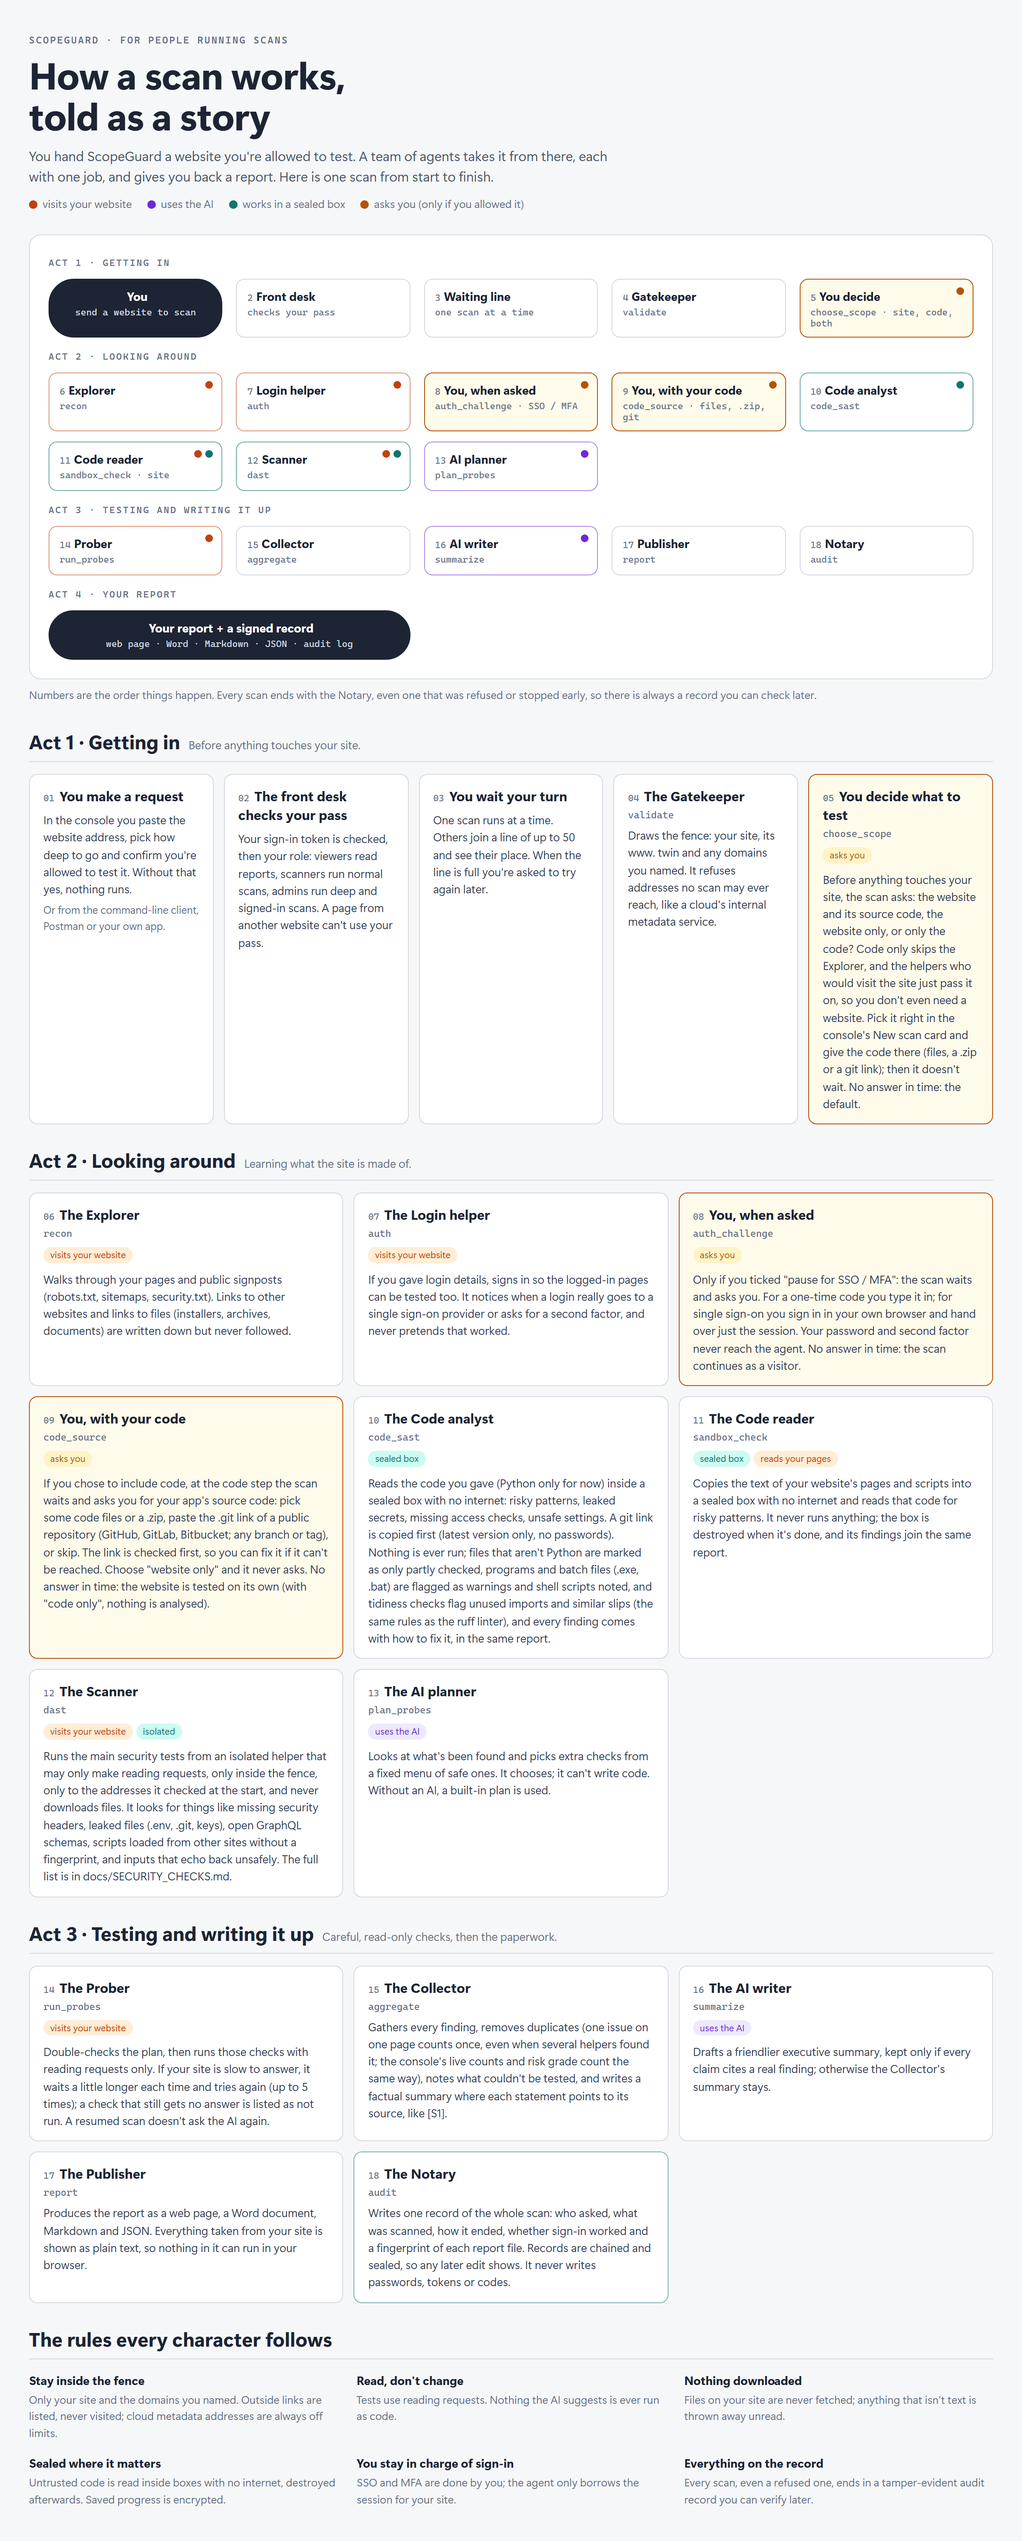
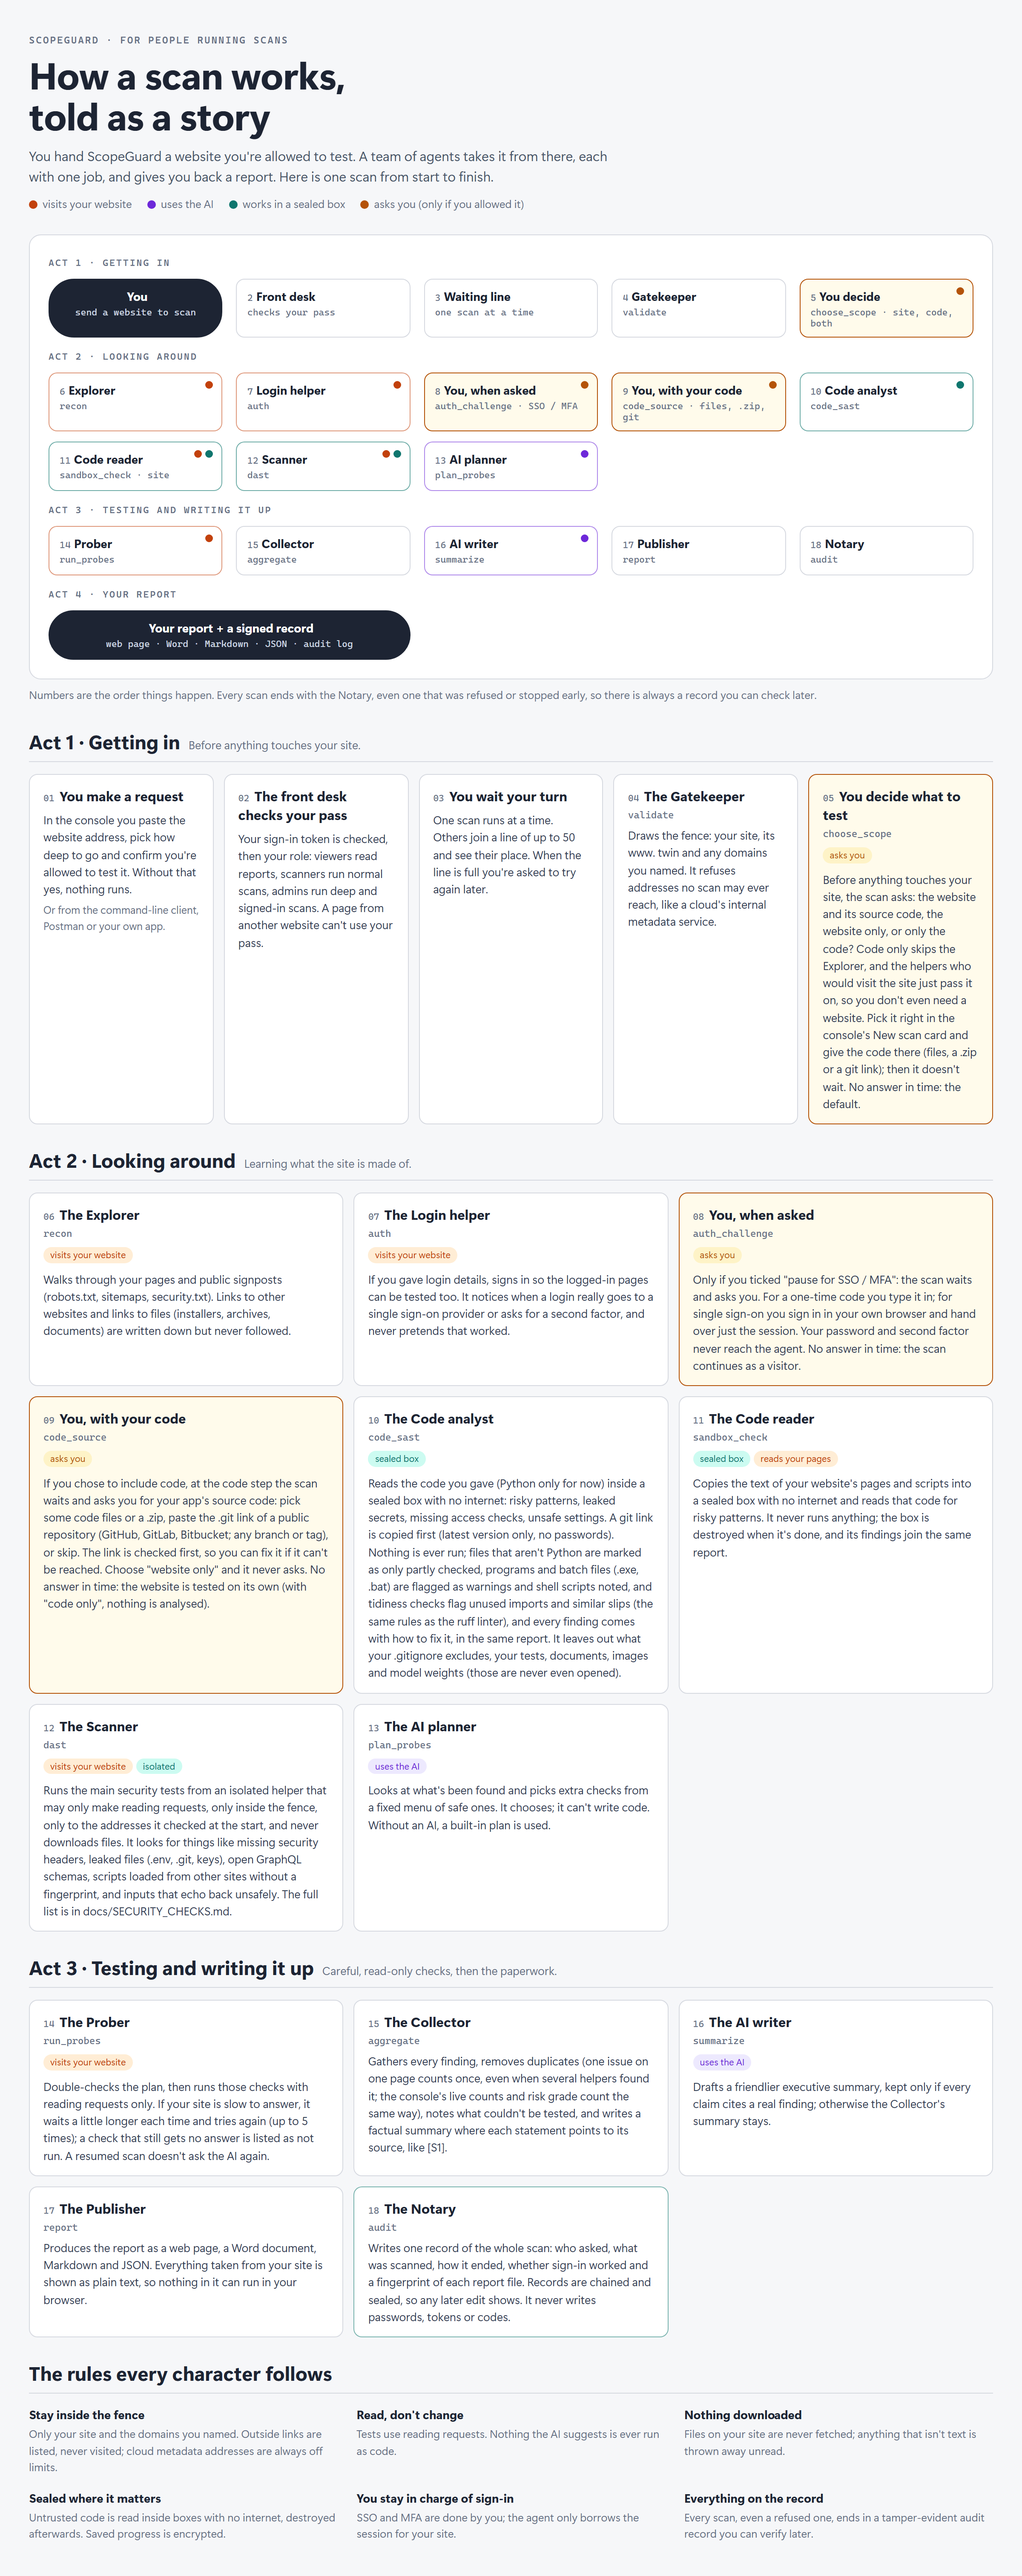
Docs: what the code SAST leaves out; skill rebuilt with LF sources
- docs/WEBSOCKET.md: --code-path leaves out gitignored files, caches, documents,
  images and model weights; what the code scan does not analyse.
- docs/scan-story (html + png): the Code analyst step names what it leaves out.
- MCP instructions and the agent skill: which files are not analysed (do not
  claim they were checked); HTTP 413 from upload_code = over MCP_MAX_UPLOAD_MB.
- .gitattributes pins .claude/skills/** to LF and marks *.skill binary, so the
  packaged skills/scopeguard-scan.skill (rebuilt with the skill-creator) matches
  the source GitHub serves byte for byte and is not reported as a nested archive.

diff --git a/docs/src/scan-story.html b/docs/src/scan-story.html
@@ -116,7 +116,7 @@
     <div class="card you"><span class="n">09</span><h3>You, with your code</h3><code>code_source</code><span class="chip c-you">asks you</span>
       <p>If you chose to include code, at the code step the scan waits and asks you for your app's source code: pick some code files or a .zip, paste the .git link of a public repository (GitHub, GitLab, Bitbucket; any branch or tag), or skip. The link is checked first, so you can fix it if it can't be reached. Choose "website only" and it never asks. No answer in time: the website is tested on its own (with "code only", nothing is analysed).</p></div>
     <div class="card"><span class="n">10</span><h3>The Code analyst</h3><code>code_sast</code><span class="chip c-box">sealed box</span>
-      <p>Reads the code you gave (Python only for now) inside a sealed box with no internet: risky patterns, leaked secrets, missing access checks, unsafe settings. A git link is copied first (latest version only, no passwords). Nothing is ever run; files that aren't Python are marked as only partly checked, programs and batch files (.exe, .bat) are flagged as warnings and shell scripts noted, and tidiness checks flag unused imports and similar slips (the same rules as the ruff linter), and every finding comes with how to fix it, in the same report.</p></div>
+      <p>Reads the code you gave (Python only for now) inside a sealed box with no internet: risky patterns, leaked secrets, missing access checks, unsafe settings. A git link is copied first (latest version only, no passwords). Nothing is ever run; files that aren't Python are marked as only partly checked, programs and batch files (.exe, .bat) are flagged as warnings and shell scripts noted, and tidiness checks flag unused imports and similar slips (the same rules as the ruff linter), and every finding comes with how to fix it, in the same report. It leaves out what your .gitignore excludes, your tests, documents, images and model weights (those are never even opened).</p></div>
     <div class="card"><span class="n">11</span><h3>The Code reader</h3><code>sandbox_check</code><span class="chip c-box">sealed box</span><span class="chip c-web">reads your pages</span>
       <p>Copies the text of your website's pages and scripts into a sealed box with no internet and reads that code for risky patterns. It never runs anything; the box is destroyed when it's done, and its findings join the same report.</p></div>
     <div class="card"><span class="n">12</span><h3>The Scanner</h3><code>dast</code><span class="chip c-web">visits your website</span><span class="chip c-box">isolated</span>

diff --git a/src/pentest_agent/mcp_server/server.py b/src/pentest_agent/mcp_server/server.py
@@ -63,6 +63,9 @@ each with its level): .exe/.bat/.cmd are warnings with a red flag, ask the user 
 .sh shell scripts are only a note (review them if unexpected). Python files
 are also checked against the PEP 8 coding standard and ruff lint rules (STYLE_* findings, info/low severity, one per rule
 and file; get_scan.code_sast.coding_standard summarises them). scan_policy.code_uploads shows the sandbox status.
+Not analysed: whatever the project's .gitignore excludes, pytest files, .claude/ and cache folders,
+documents (.md, .txt, .pdf, .docx, .mmd), images and model weights (never opened): do not tell the user
+those were checked. upload_code takes a .zip up to MCP_MAX_UPLOAD_MB (scan_policy.code_uploads).
 
 What a scan tests (scan_scope in start_scan; ask the user when they give both a site and code):
 "website_and_code" (the site, then the code; the default when upload_id/git_url is given),

diff --git a/docs/WEBSOCKET.md b/docs/WEBSOCKET.md
@@ -191,10 +191,13 @@ path is the MCP tool `upload_code`, because a zip has to fit inside a JSON tool 
 by the server (`--depth 1`, hardened), so nothing is uploaded at all.
 
 `scripts/ws_client.py --code-path <.zip or folder>` (or the wizard's "local .zip file or project
-folder") does the upload for you: a folder is zipped in memory (`.git`, `node_modules`, virtualenvs,
-caches and symlinks are left out), sent as the raw `POST /api/uploads` body with the automatic token,
-and the returned `upload_id` goes into the scan request. Code needs the admin role (`scan:source`) and
-is analysed as Python (other languages: partial coverage, marked in the report).
+folder") does the upload for you: a folder is zipped in memory and sent as the raw `POST /api/uploads`
+body with the automatic token; the returned `upload_id` goes into the scan request. The zip leaves out
+what the folder's `.gitignore` files exclude (so `.env`, `keys/`, `data/` stay on your machine),
+vendored / cache folders (`.git`, `node_modules`, `.venv`, `.ruff_cache`, ...), symlinks, documents
+(`.md`, `.txt`, `.pdf`, `.docx`, `.mmd`, ...), images and model weights (`.pkl`, `.pt`, `.onnx`, `.h5`, ...).
+Code needs the admin role (`scan:source`) and is analysed as Python (other languages: partial coverage,
+marked in the report). Not analysed: whatever the project's .gitignore excludes, pytest files (test_*.py, *_test.py, conftest.py), .claude/ and cache / vendored folders, documents (.md, .txt, .pdf, .docx, .mmd, ...), images and model weights (never opened). A bundled zip whose files are all in the upload as source is not reported as a nested archive.
 
 ## 6a. Recipes: website only, website + code, code only
 
@@ -437,7 +440,7 @@ uv run python scripts/ws_client.py --help
 | `--i-have-authorization` | Required for a real URL or code: you own it or may test it. |
 | *(no arguments)* / `-i` | Interactive: numbered menus ask for everything (URL, code, git link, path, scope, profile, ...), show the frame, then ask "Start?". |
 | `--scope`, `--upload-id`, `--git-url`, `--git-ref` | Source code named up front (`--scope code --upload-id ...` needs no URL). |
-| `--code-path ZIP_OR_DIR` | Upload a local .zip or folder over HTTP first (raw zip body), then send its `upload_id`. |
+| `--code-path ZIP_OR_DIR` | Upload a local .zip or folder over HTTP first (raw zip body), then send its `upload_id`. A folder leaves out gitignored files, caches, documents, images and model weights. |
 | `--ask-scope`, `--ask-for-code`, `--interactive-auth` | Turn the pauses on; the client prompts in the terminal (secrets hidden). |
 | `--scope-answer`, `--code-answer-upload`, `--code-answer-git` | Answer pauses without a prompt. Without a TTY: default scope / skip. |
 | `--frames` | Print every received frame as pretty JSON (long strings shortened). `--full`: no shortening. |

diff --git a/.claude/skills/scopeguard-scan/SKILL.md b/.claude/skills/scopeguard-scan/SKILL.md
@@ -203,6 +203,12 @@ the admin role (`scan:source`) and covers **Python projects only for now** (tell
    F632, E741): `STYLE_*` findings (info, or low for the ones that hide bugs: bare `except`, mutable
    defaults, wildcard / unused imports, redefinitions, `is` with a literal), one per rule and file, summarised in
    `code_sast.coding_standard`. Mention them after the security findings, never instead of them.
+   Not analysed (say so if the user asks why something was not reported): whatever the project's
+   `.gitignore` excludes, pytest files (`test_*.py`, `*_test.py`, `conftest.py`), `.claude/` and cache /
+   vendored folders, documents (`.md`, `.txt`, `.pdf`, `.docx`, `.mmd`, ...), images and model weights
+   (`.pkl`, `.pt`, `.onnx`, `.h5`, `.keras`, `.tflite`, `.ckpt`, ...; never opened). A bundled zip whose
+   files are all in the upload as source is not reported as `NESTED_ARCHIVE`. An `upload_code` refusal
+   with HTTP 413 means the zip is over `MCP_MAX_UPLOAD_MB` (default 10 MB): zip only the source.
 4. When the user asks how to fix a code finding, read the report (`get_report(format="json")`):
    `code_upload.recommendations` has one entry per rule with a `remediation` block (steps, a before/after
    `example` in the file's language, OWASP `references`). Locations, evidence and file names come from the
